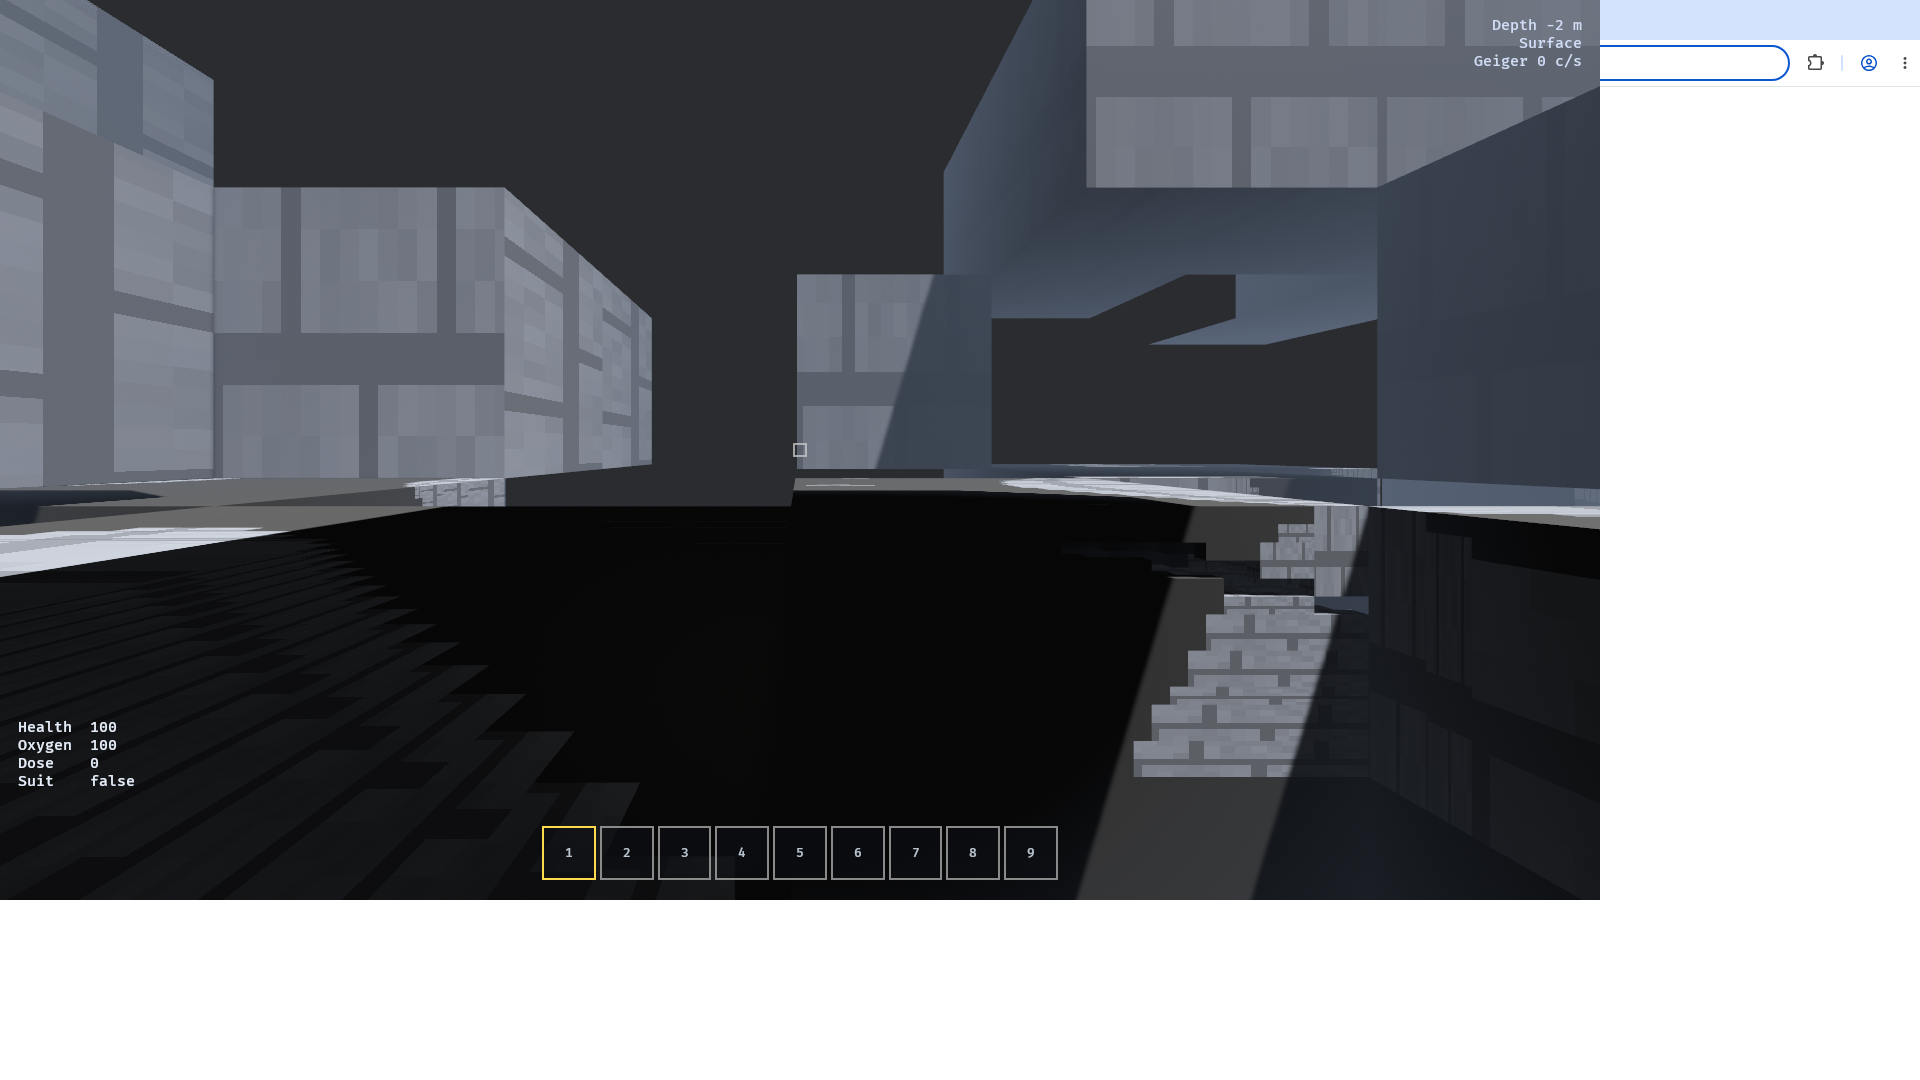
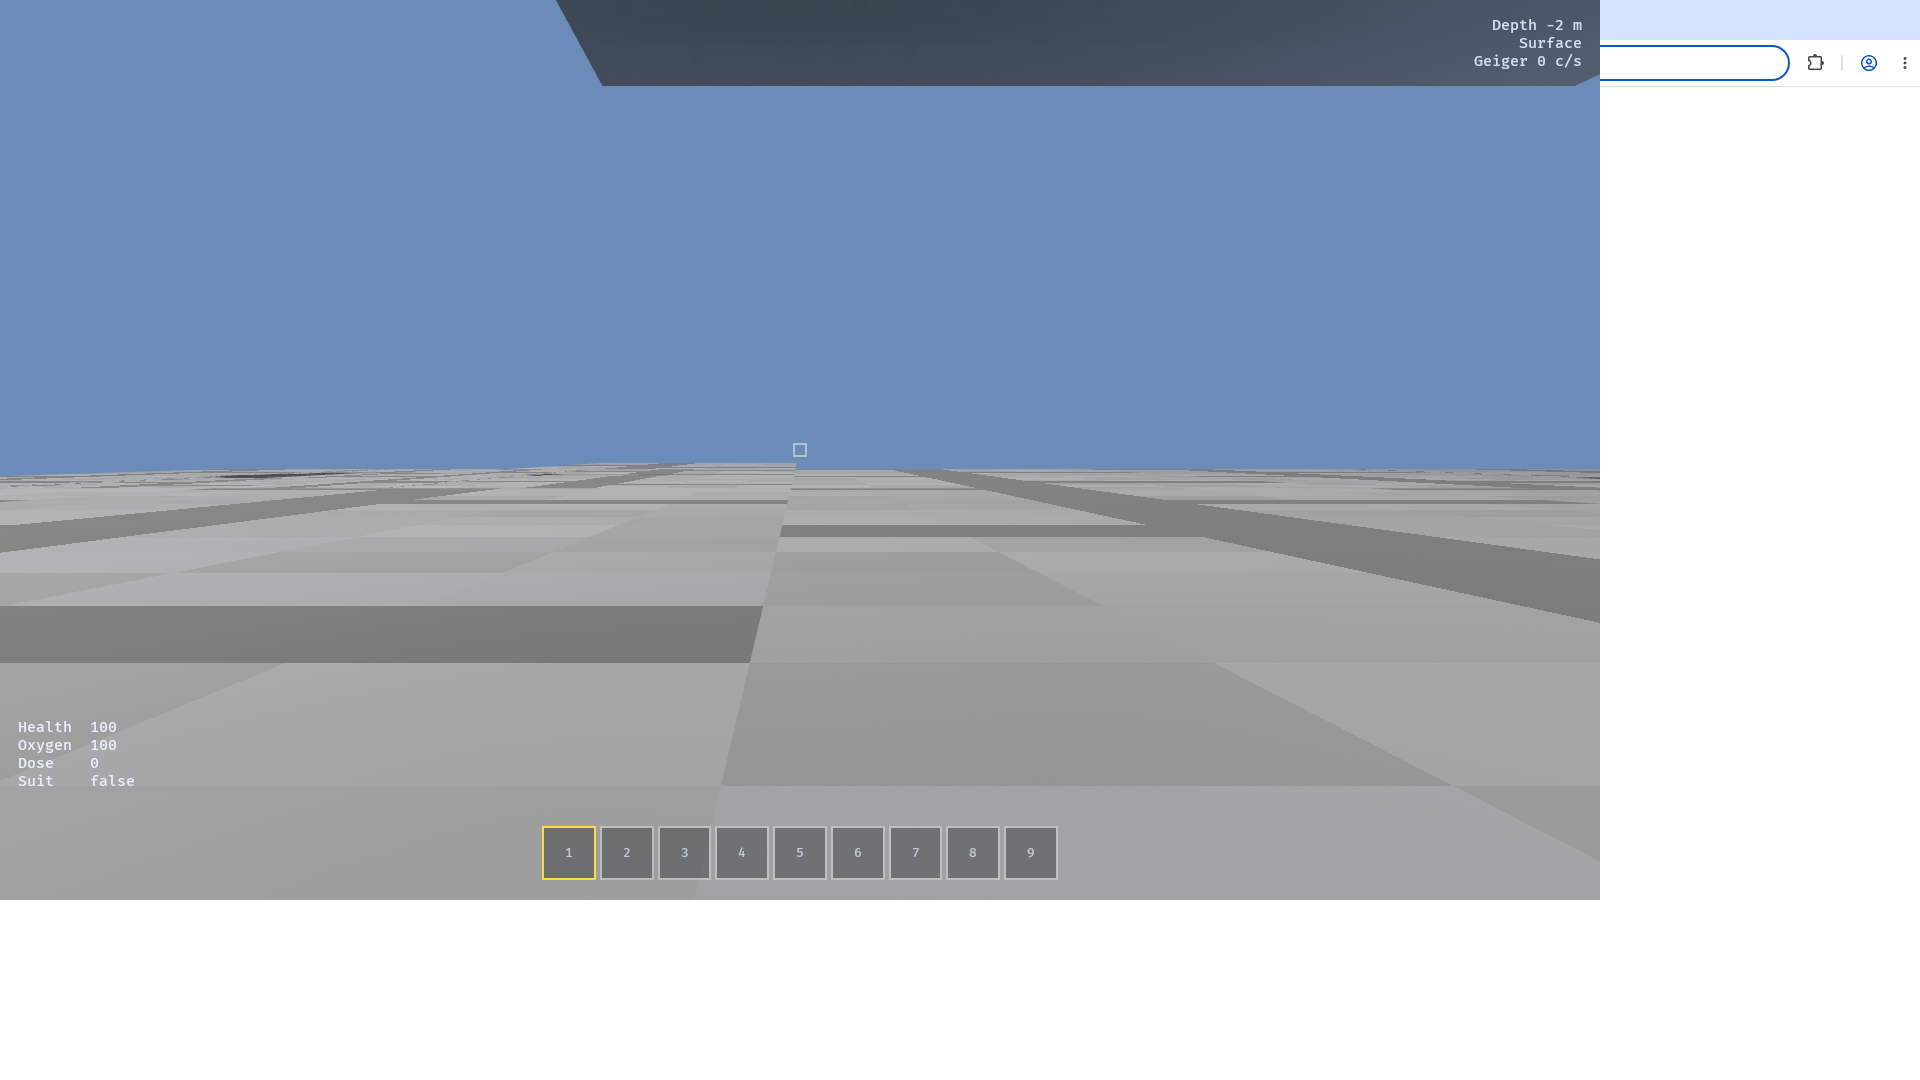
Lighting pass and README: daylight camp, sky, balanced headlamp
- camera clear colour, sun angle/illuminance and ambient balanced so the surface reads as
  daylight while the mine stays dark and the headlamp does the work underground
- README documents what is actually in the box and the real test count

diff --git a/crates/client/src/main.rs b/crates/client/src/main.rs
@@ -200,6 +200,10 @@ fn setup_scene(mut commands: Commands, content: Res<ContentRegistry>, config: Re
             ..default()
         }),
         Msaa::Sample4,
+        Camera {
+            clear_color: ClearColorConfig::Custom(Color::srgb(0.42, 0.55, 0.72)),
+            ..default()
+        },
         DistanceFog {
             color: Color::srgba(0.35, 0.40, 0.48, 1.0),
             falloff: FogFalloff::Linear {
@@ -215,8 +219,8 @@ fn setup_scene(mut commands: Commands, content: Res<ContentRegistry>, config: Re
         SpotLight {
             // A headlamp, not a floodlight: bright enough to read a tunnel, not to blow out
             // the wall half a metre away.
-            intensity: 320_000.0,
-            range: 48.0,
+            intensity: 260_000.0,
+            range: 46.0,
             outer_angle: 0.70,
             inner_angle: 0.30,
             color: Color::srgb(1.0, 0.96, 0.86),
@@ -229,16 +233,18 @@ fn setup_scene(mut commands: Commands, content: Res<ContentRegistry>, config: Re
     commands.spawn((
         DirectionalLight {
             // Daylight on the surface; the mine below is lit by the headlamp and placed lamps.
-            illuminance: 22_000.0,
-            shadow_maps_enabled: true,
+            illuminance: 11_000.0,
+            shadow_maps_enabled: false,
+            color: Color::srgb(1.0, 0.97, 0.90),
             ..default()
         },
-        Transform::from_xyz(0.0, 200.0, 0.0).looking_at(Vec3::new(-60.0, 0.0, -40.0), Vec3::Y),
+        // Straight down and slightly to the side: a high sun, so the flat camp is evenly lit.
+        Transform::from_rotation(Quat::from_euler(EulerRot::XYZ, -1.15, 0.5, 0.0)),
     ));
     // Ambient light is a component in Bevy 0.20; one entity drives the whole scene.
     commands.spawn(AmbientLight {
-        color: Color::srgb(0.55, 0.60, 0.72),
-        brightness: 1_600.0,
+        color: Color::srgb(0.55, 0.62, 0.78),
+        brightness: 1_200.0,
         ..default()
     });
     info!("scene ready: {} blocks of content", content.blocks.len());

diff --git a/crates/server/tests/mining_e2e.rs b/crates/server/tests/mining_e2e.rs
@@ -178,8 +178,7 @@ fn set_block(app: &mut App, pos: BlockPos, block: u16) {
 /// the accumulator crosses the timestep.
 fn step(app: &mut App) {
     app.update();
-    app.world_mut()
-        .run_schedule(bevy::app::FixedMain);
+    app.world_mut().run_schedule(bevy::app::FixedMain);
 }
 
 /// The block at a position.

diff --git a/README.md b/README.md
@@ -67,13 +67,32 @@ inventories, machines, power networks and hazards, and validates every client in
 shows: it predicts its own movement with the same shared code and sends intents for everything
 else. See `docs/PLAN.md` for the full design and `PROGRESS.md` for the current state.
 
+## What is in the box
+
+| Area | State |
+|---|---|
+| Voxel world | 1024 × 1024 × 512 blocks, palette-compressed 32³ chunks, deterministic worldgen with six layers, caves and ore veins, greedy meshing on the async pool |
+| Mining | hardness/tier rules, area drills, server-validated intents, predicted crack animation |
+| Multiplayer | authoritative 30 Hz server, handshake with content hash, chunk streaming, movement prediction and reconciliation |
+| Content | 83 blocks, 148 items, 134 recipes, 36 machines, 30 tech nodes — all RON, validated at load |
+| Progression | all six Eras, the full nuclear chain (crush → leach → precipitate → convert → enrich → fabricate), reactor physics with scram, waste handling, the Nuclear Drill |
+| Base building | machine kit placement with ghost preview, machine screens, conveyors, power (steam and electric with brownouts), research desk and tech tree |
+| Hazards | darkness, flooding, gas, heat, cave-ins, radiation with a Geiger counter and gear |
+| Persistence | region files + SQLite, autosave, atomic writes, load on startup, returning players restored |
+| Lobby | axum + sqlx accounts (argon2), hashed tokens, server browser, heartbeats, Dockerfiles |
+| Polish | procedural atlas and audio (zero downloaded assets), HUD, egui screens, guided objectives |
+
 ## Tests
 
 ```bash
-cargo test --workspace
+cargo test --workspace   # 96 tests
 ```
 
-69 tests cover chunk palette round-trips, worldgen determinism and ore placement, the break-time
-formula and tier gate, inventory stacking (with property tests), machine ticks, tech tree
-deposits, power solving and brownouts, radiation maths, the wire protocol, procedural atlas
-generation, greedy meshing, procedural audio, and region-file persistence.
+Coverage: chunk palette round-trips, worldgen determinism/ore placement/generation speed, the
+break-time formula and tier gate, inventory stacking (property tests), machine ticks, tech tree
+deposits, power solving and brownouts, radiation maths, the wire protocol, procedural atlas and
+audio, greedy meshing, region-file round-trips — plus **end-to-end intent tests** (mine, refuse
+too-hard, refuse out-of-reach, place, broadcast), nine server integration tests, four nuclear
+chain tests including the whole enrichment chain, and four lobby HTTP tests.
+
+`PROGRESS.md` lists every known gap, and the bugs the end-to-end tests caught.
